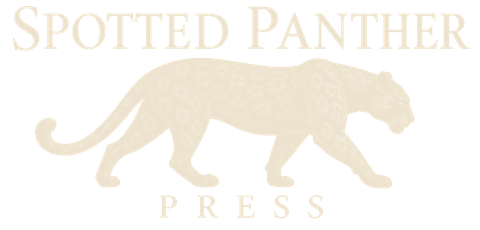
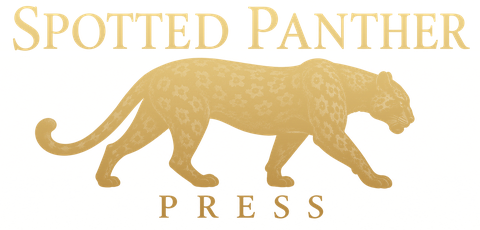
Imprint mark in gold, matching the paperback
Claude-Session: https://claude.ai/code/session_01B2iQVU9SaoSv57RZnNDe7N

diff --git a/assets/site.css b/assets/site.css
@@ -287,7 +287,7 @@ main { display: block; }
   font-size: .95rem;
 }
 .footer p { margin: .25rem 0; }
-.footer .imprint { width: 11rem; margin: 0 auto 1.25rem; opacity: .85; }
+.footer .imprint { width: 11rem; margin: 0 auto 1.25rem; }
 .footer a { color: var(--dust); }
 
 /* ---------- Small screens ---------- */
